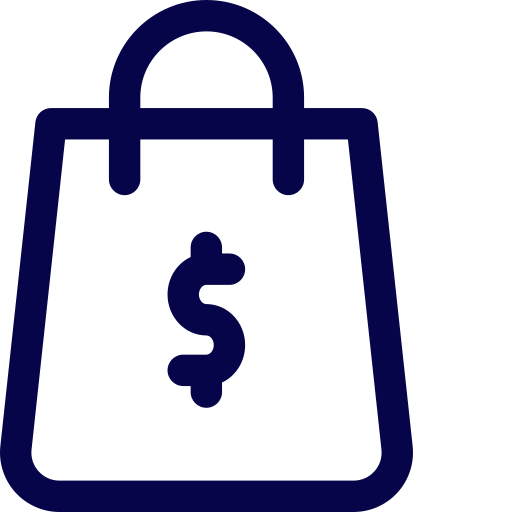
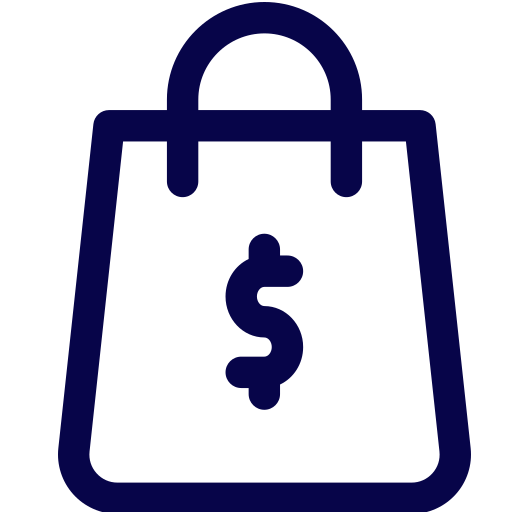
Fixed forms for mobile view and fixed image of we-sell.img

diff --git a/css/main.css b/css/main.css
@@ -158,92 +158,91 @@
 }
 
 /*-- Forms/Mobile --*/
-.container {
-  display: flex;
-  justify-content: center;
-  align-items: center;
-  height: 70vh;
-  background-color: #070549;
-}
+@media screen and (max-width: 767px) {
+  .container {
+    display: flex;
+    justify-content: center;
+    align-items: center;
+    height: 110vh;
+    background-color: #070549;
+  }
 
-.inner-container {
-  background-color: #ffffff;
-  border: 2px solid #ffffff;
-  border-radius: 10px;
-  padding: 20px;
-  box-shadow: 0 0 10px rgba(255, 255, 255, 0.3);
-}
+  .inner-container {
+    background-color: #ffffff;
+    padding: 35px;
+    flex-direction: column;
+  }
 
-h2 {
-  text-align: center;
-  margin-bottom: 20px;
-}
+  h2 {
+    text-align: center;
+    margin-bottom: 20px;
+  }
 
-.form-row {
-  margin-bottom: 20px;
-  position: relative;
-}
+  .form-row {
+    margin-bottom: 20px;
+    position: relative;
+  }
 
-label {
-  display: block;
-  margin-bottom: 5px;
-}
+  label {
+    display: block;
+    margin-bottom: 5px;
+  }
 
-input[type="text"],
-input[type="tel"],
-input[type="email"],
-textarea,
-select {
-  width: 100%;
-  padding: 8px;
-  border-radius: 4px;
-  border: 1px solid #ccc;
-  box-sizing: border-box;
-}
+  input[type="text"],
+  input[type="tel"],
+  input[type="email"],
+  textarea,
+  select {
+    width: 100%;
+    padding: 8px;
+    border-radius: 4px;
+    border: 1px solid #ccc;
+    box-sizing: border-box;
+  }
 
-textarea {
-  resize: vertical;
-}
+  textarea {
+    resize: vertical;
+  }
 
-input[type="submit"] {
-  background-color: #333;
-  color: white;
-  cursor: pointer;
-  padding: 10px 20px;
-  border: none;
-  border-radius: 4px;
-  width: 100%;
-  box-sizing: border-box;
-}
+  input[type="submit"] {
+    background-color: #333;
+    color: white;
+    cursor: pointer;
+    padding: 10px 20px;
+    border: none;
+    border-radius: 4px;
+    width: 100%;
+    box-sizing: border-box;
+  }
 
-input[type="submit"]:hover {
-  background-color: #555;
-}
+  input[type="submit"]:hover {
+    background-color: #555;
+  }
 
-.form-note {
-  margin-top: 10px;
-  font-size: 12px;
-}
+  .form-note {
+    margin-top: 10px;
+    font-size: 12px;
+  }
 
-.required {
-  color: red;
-  position: absolute;
-  top: 0;
-  right: -10px;
-}
+  .required {
+    color: red;
+    position: absolute;
+    top: 0;
+    right: -10px;
+  }
 
-.form-container {
-  display: flex;
-  justify-content: space-between;
-}
+  .form-container {
+    display: flex;
+    flex-direction: column;
+  }
 
-.form-column {
-  flex: 1;
-  margin-right: 20px;
-}
+  .form-column {
+    flex-direction: column;
+  }
 
-.form-column:last-child {
-  margin-right: 0;
+  .form-column:last-child {
+    margin-right: 0;
+  }
 }
 
 
@@ -533,7 +532,7 @@ input[type="submit"]:hover {
   display: flex;
   justify-content: center;
   align-items: center;
-  height: 70vh;
+  height: 60vh;
   background-color: #070549;
 }
 
@@ -744,3 +743,4 @@ input[type="submit"]:hover {
 .about-us p {
   padding-right: 100px;
 }
+
